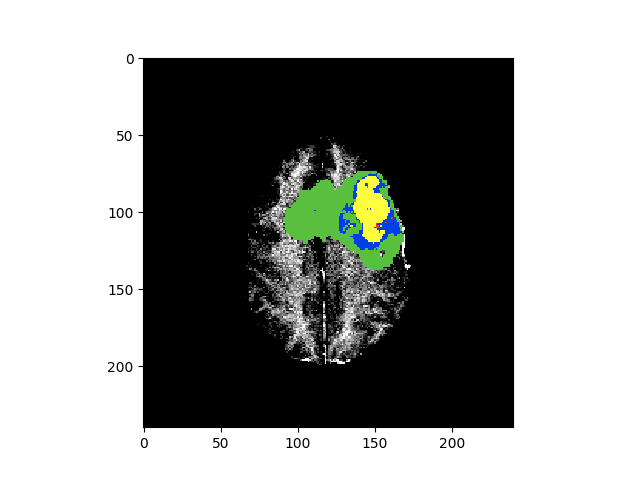
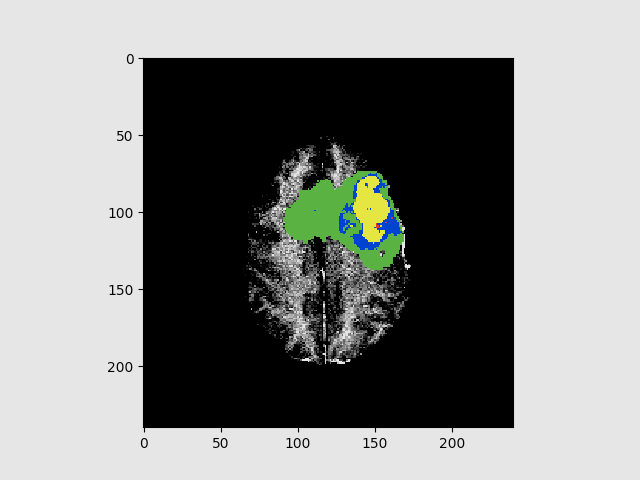
update

diff --git a/predict.py b/predict.py
@@ -17,16 +17,16 @@ with open('config.json') as config_file:
     config = json.load(config_file)
 
 
-def gen_prediction_mask(background, mask, model_name, patient, slice):
+def gen_prediction_mask(bg, mask, model_name, patient, slice):
     ones = np.argwhere(mask == 1)
     twos = np.argwhere(mask == 2)
     threes = np.argwhere(mask == 3)
     fours = np.argwhere(mask == 4)
 
+    background = io.imread(bg)
 
     background = img_as_float(background)
     background = color.gray2rgb(background)
-    background = adjust_gamma(background, 0.65)
 
 
 #    background = adjust_gamma(color.gray2rgb(background), 0.65)
